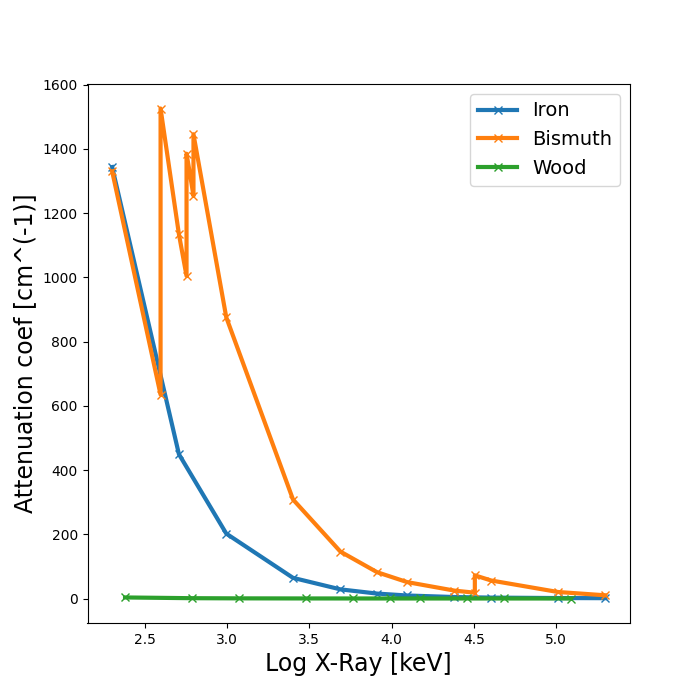
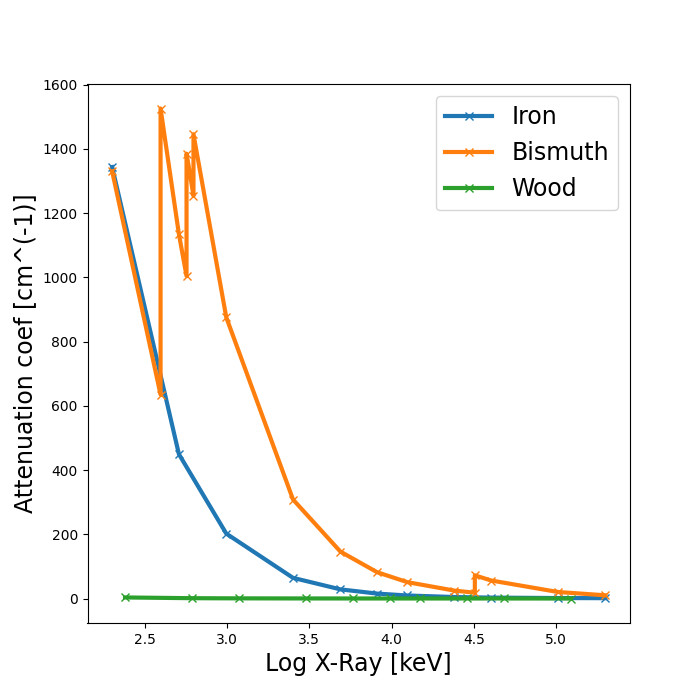
my commit

Changed region(s): [[0.63, 0.12, 0.9, 0.3], [0.87, 0.24, 0.9, 0.27]]

diff --git a/code/atttenuation_coef.py b/code/atttenuation_coef.py
@@ -94,7 +94,7 @@ plt.plot(
     [diff for x,diff in zip(x_combined, diff_yinterp) if x >= 10 and x <= 200], '-x', linewidth=3)
 plt.xlabel("Log X-Ray [keV]", fontsize=17)
 plt.ylabel("Attenuation coef [cm^(-1)]", fontsize=17)
-plt.legend(["Absolute difference between bismuth and iron"], fontsize=14)
+plt.legend(["Absolute difference between bismuth and iron"], fontsize="17")
 
 # plt.fill_betweenx([min(y_val_iron),max(y_val_iron)],np.log(10),np.log(200),alpha=0.5)
 plt.savefig(".././images/diff-attenuation-coef-bismuth-iron-zoom.png")
@@ -135,7 +135,7 @@ plt.xlabel("Log X-Ray [keV]", fontsize=17)
 plt.ylabel("Attenuation coef [cm^(-1)]", fontsize=17)
 
 #plt.fill_betweenx([min(y_val_iron),max(y_val_iron)],np.log(10),np.log(200),alpha=0.5)
-plt.legend(["Iron", "Bismuth", "Wood"], fontsize=14)
+plt.legend(["Iron", "Bismuth", "Wood"], fontsize="17")
 
 plt.savefig(".././images/attenuation_coef_zoom.png")
 plt.close()
